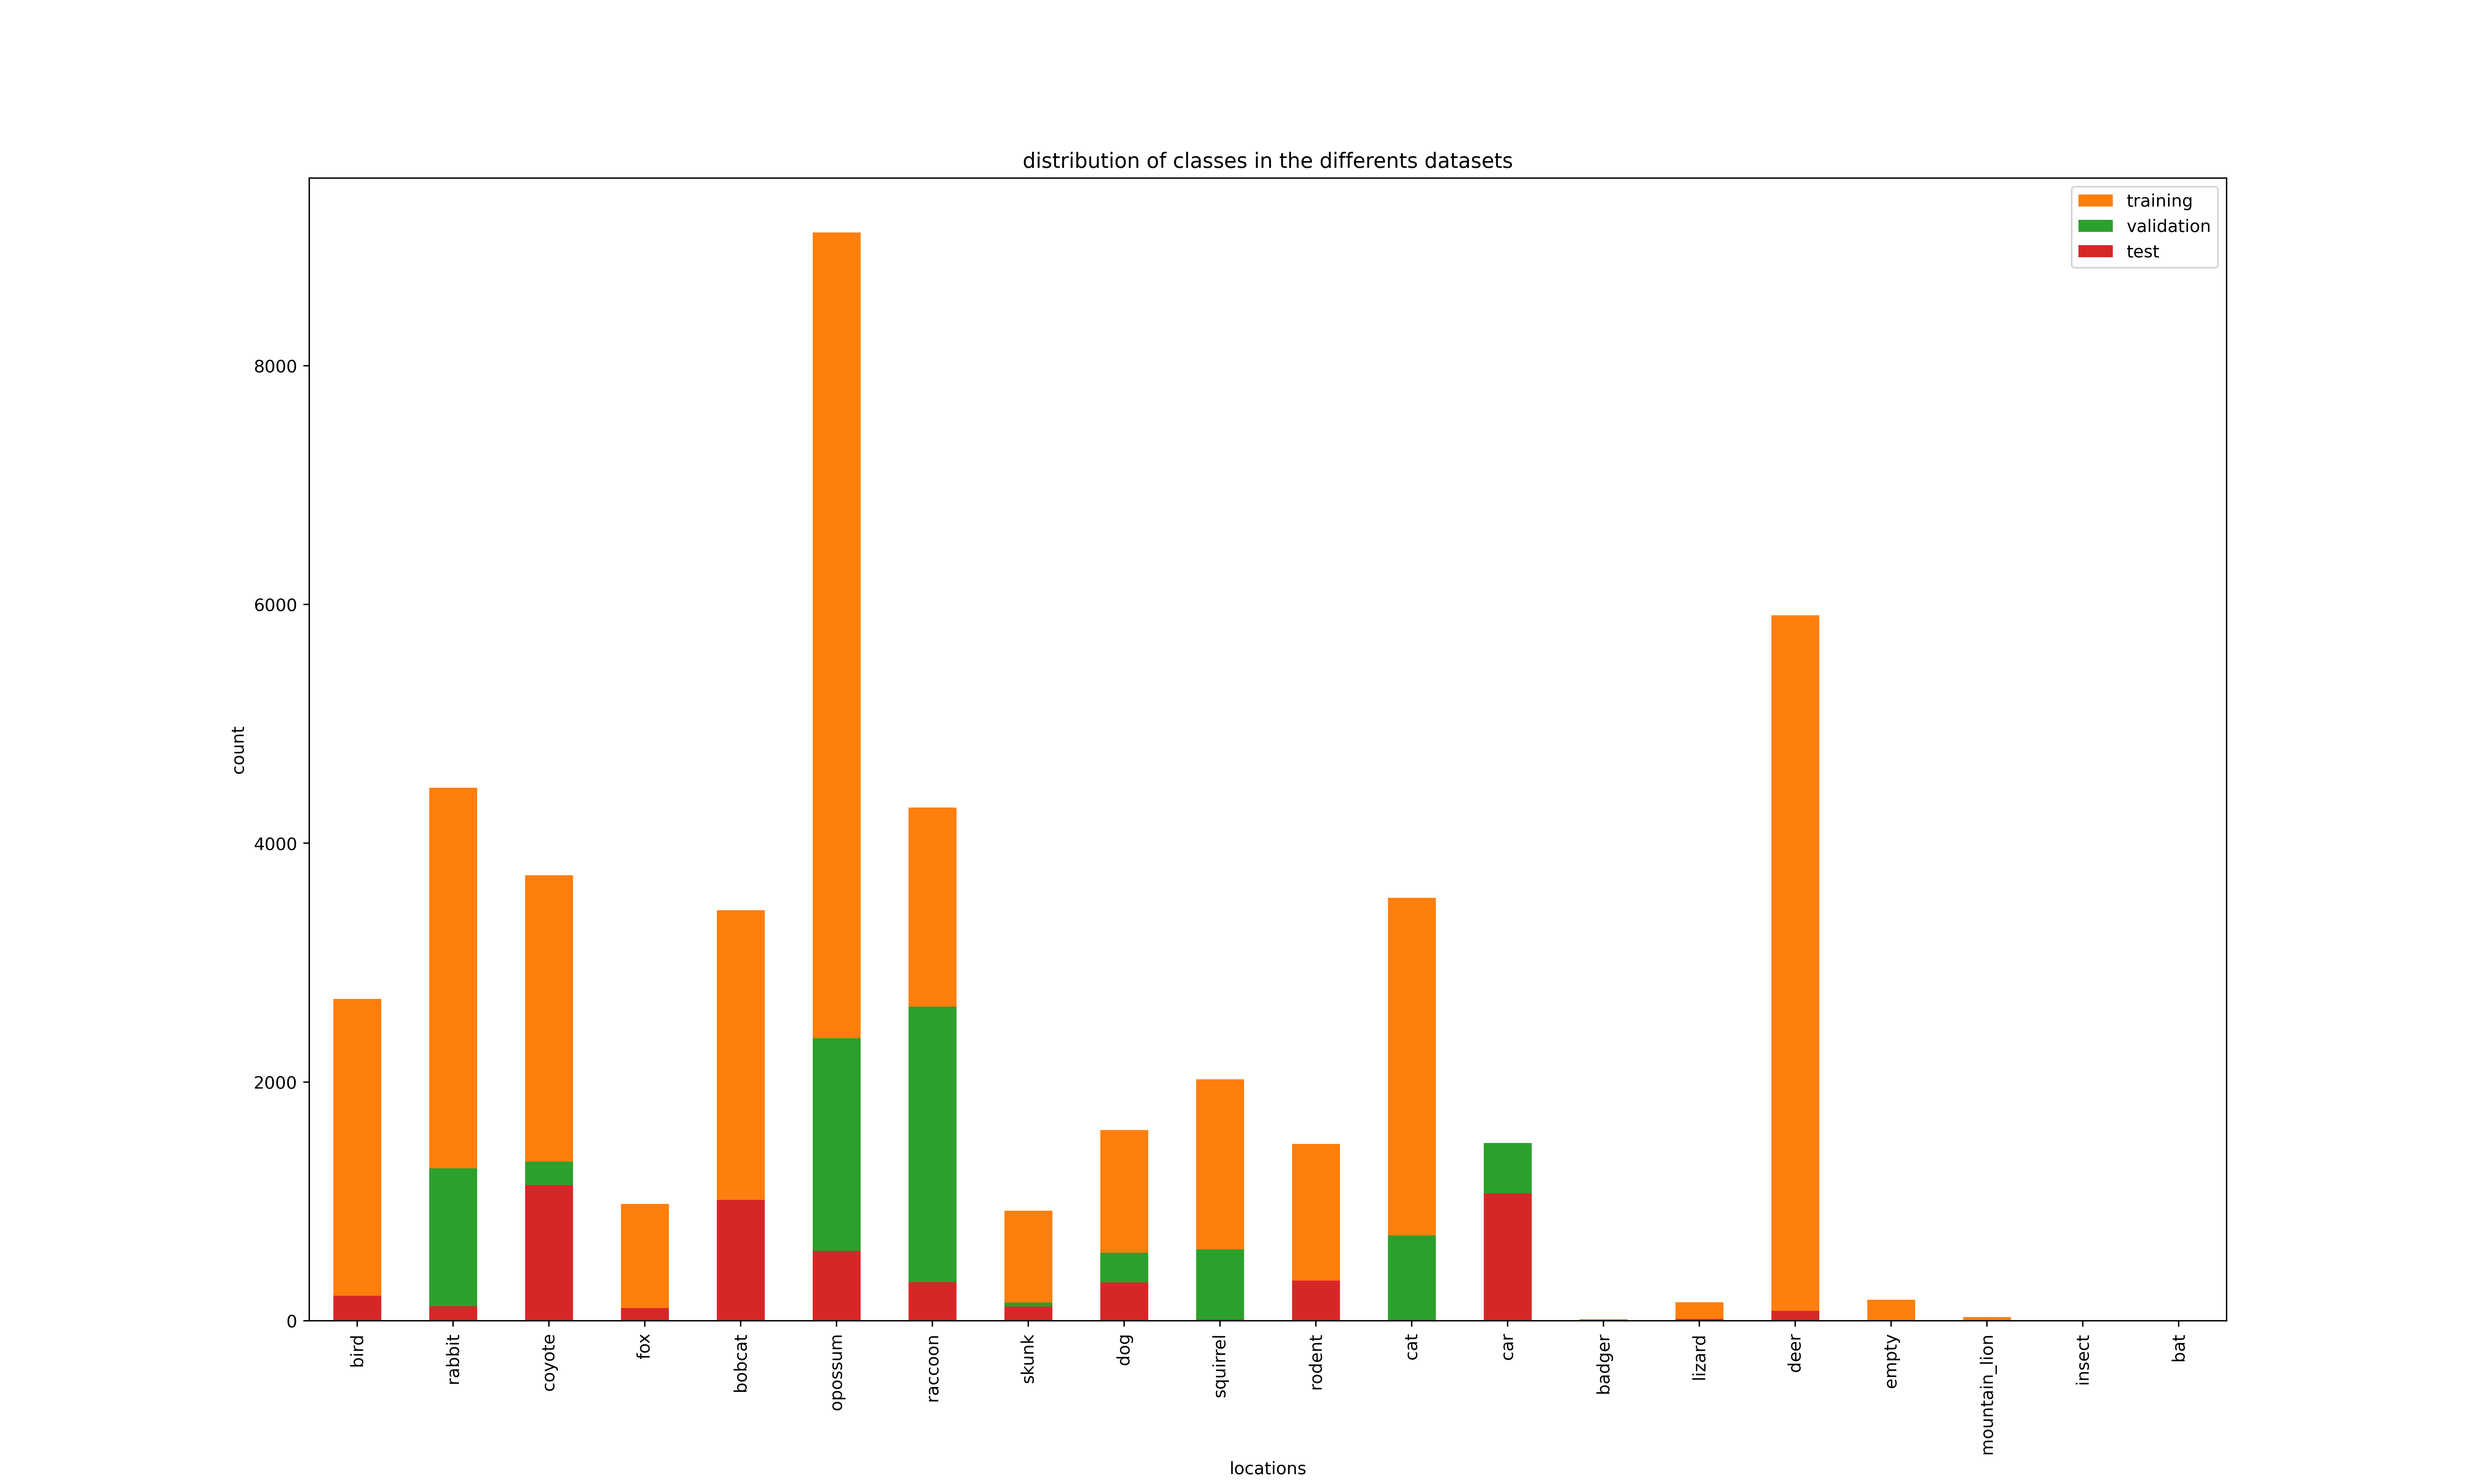
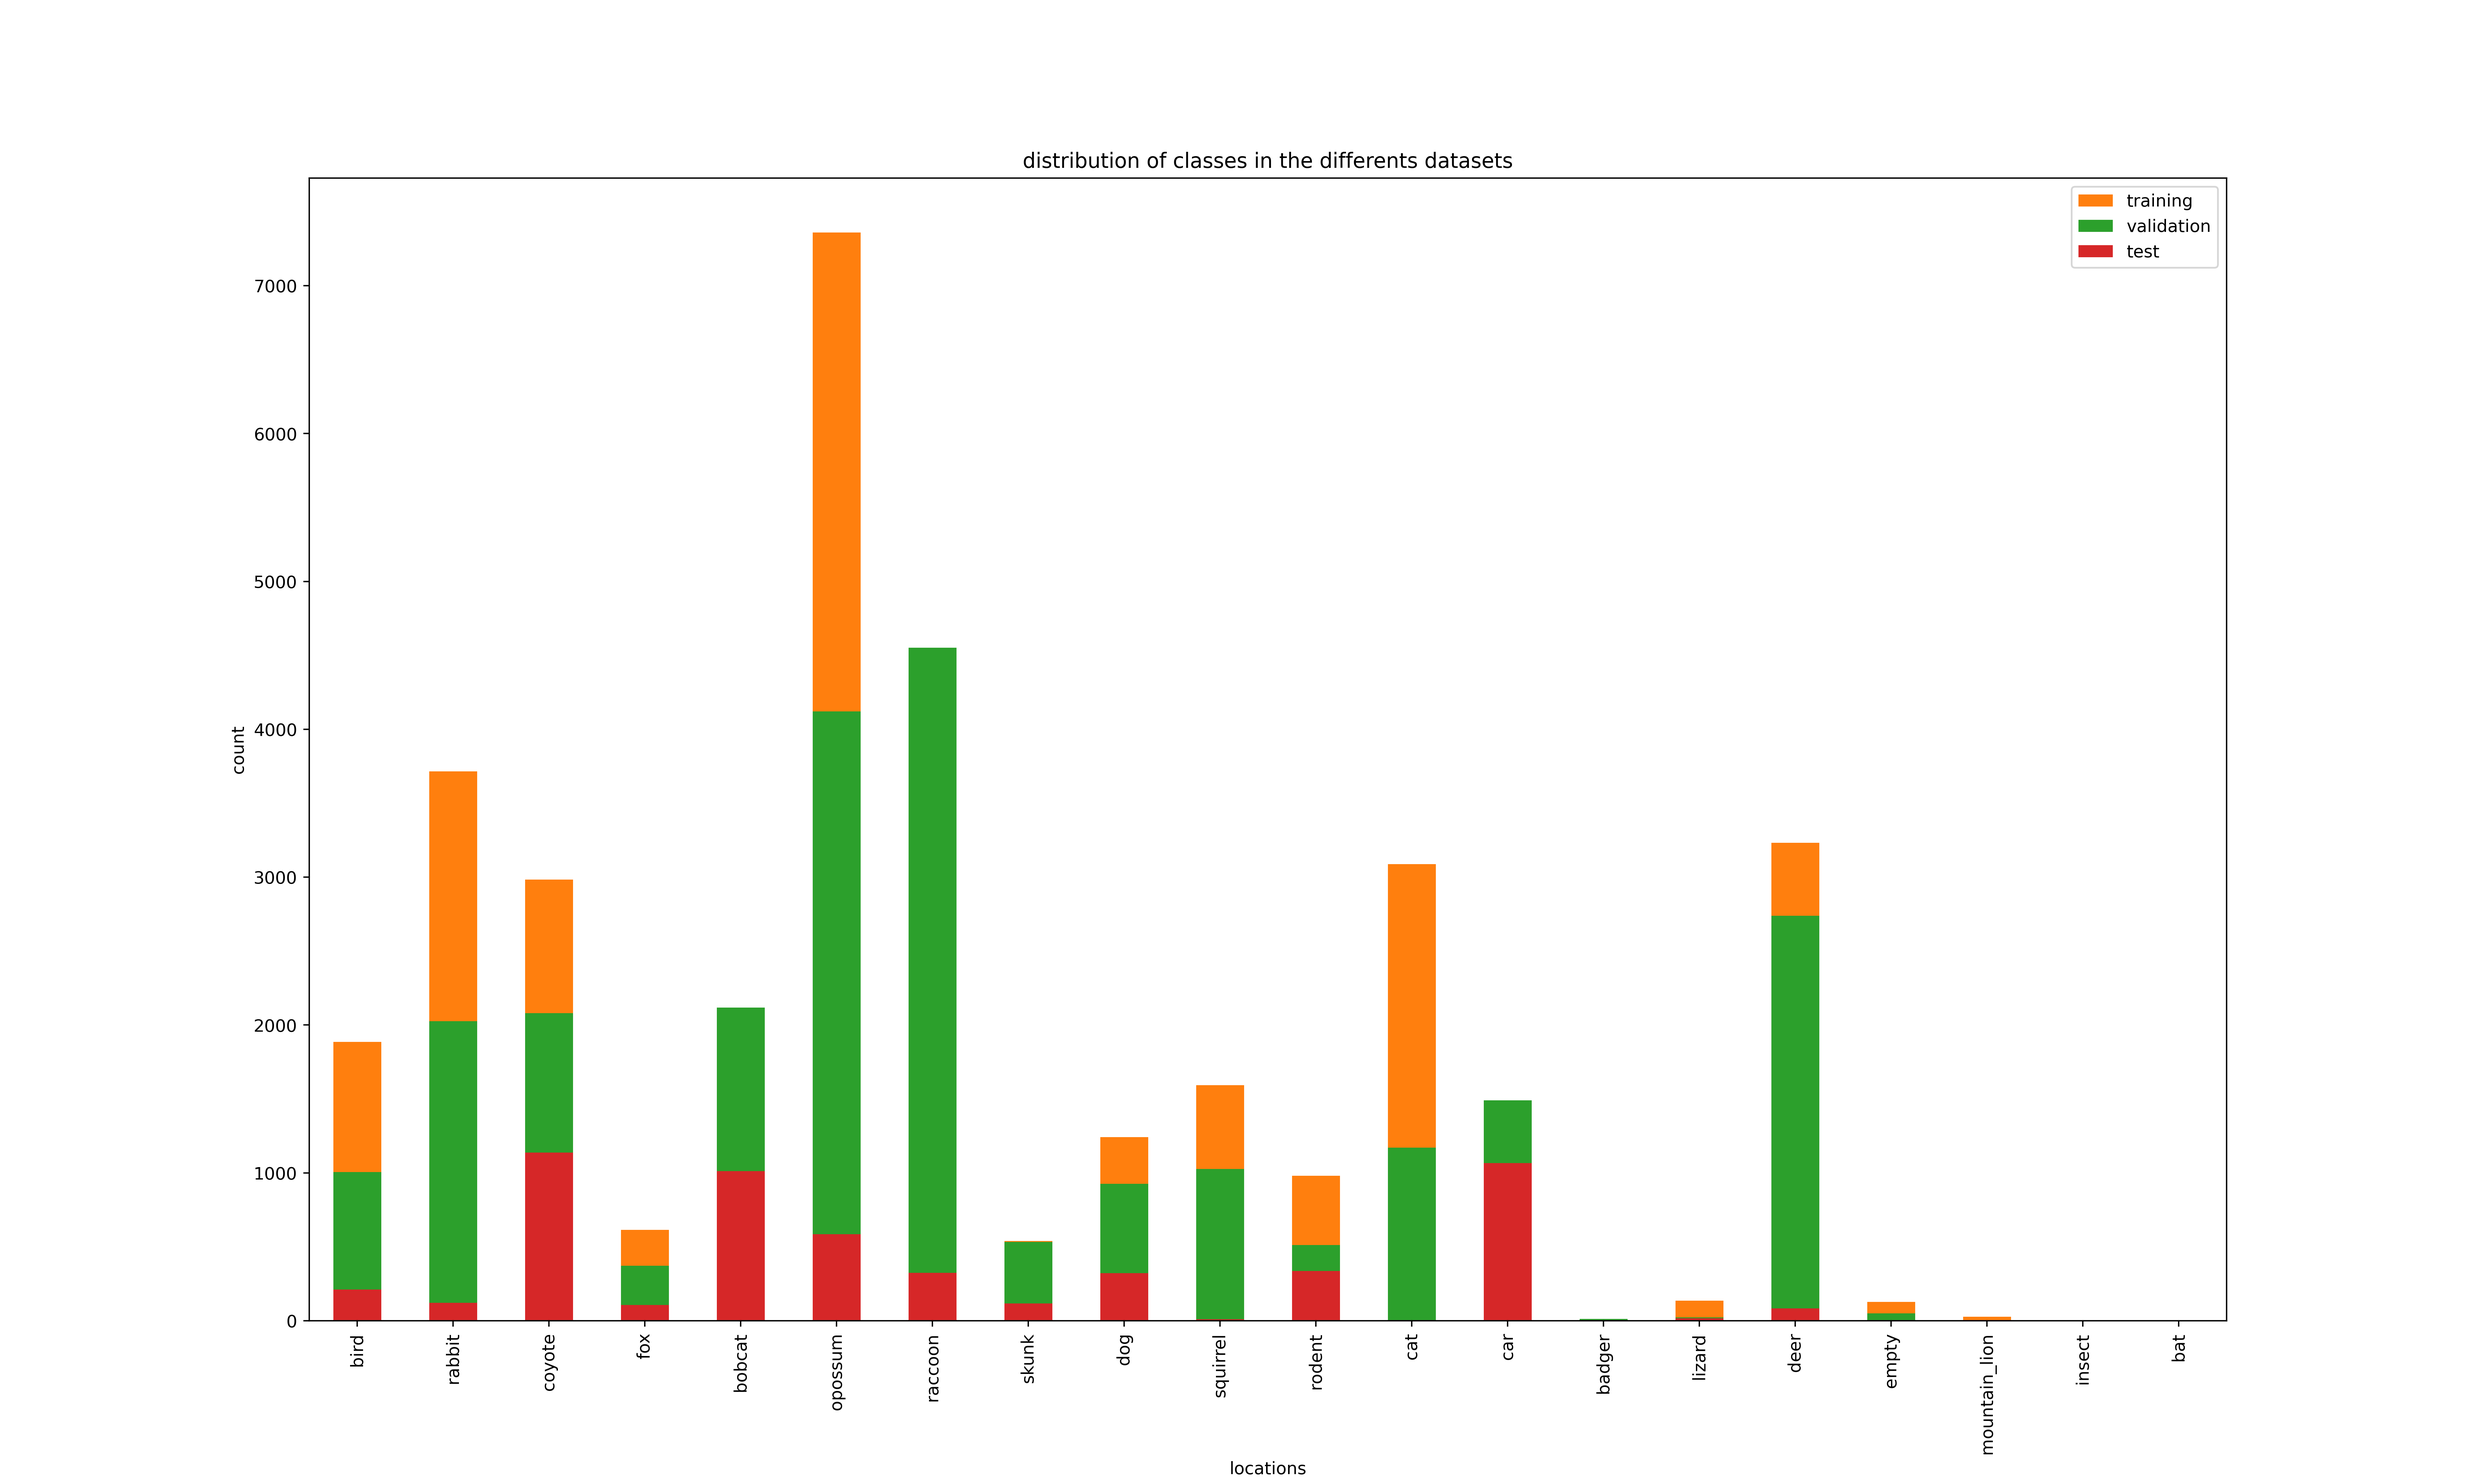
changed classses to remove the empty class and replace by empty vector ; changed dataset distribution

diff --git a/training/dataloaders/cct_dataloader.py b/training/dataloaders/cct_dataloader.py
@@ -35,9 +35,11 @@ class CustomImageDataset(Dataset):
         self.categories={}
 
         data=json.load(open(f"{os.getcwd()}/data_API/caltech_bboxes_20200316.json"))
-        data["categories"].pop("empty",None)
-        for ex,category in enumerate(data["categories"]) :
-            self.categories[category["name"]]=ex
+        i=0
+        for category in data["categories"] :
+            if category["name"]!="empty" :
+                self.categories[category["name"]]=i
+                i+=1
     def __len__(self):
         return self.length
 

diff --git a/main.py b/main.py
@@ -115,7 +115,7 @@ if __name__=="__main__" :
     print("The data has now been loaded successfully into memory")
     #------------training--------------------------------------------
     print("Starting training now")
-    if True :   #input("do you want to clear old log files? (yes/no)").lower()=="yes" :
+    if input("do you want to clear old log files? (yes/no)").lower()=="yes" :
 
 
 

diff --git a/data/data_analysis.py b/data/data_analysis.py
@@ -59,8 +59,8 @@ for location in locations :
 
 #step 2 : split n images
 n1=int(0.1*n)
-training=7*n1
-validation=2*n1
+training=int(5.1*n1)
+validation=int(3.9*n1)
 test=n1
 sizes=[]
 
